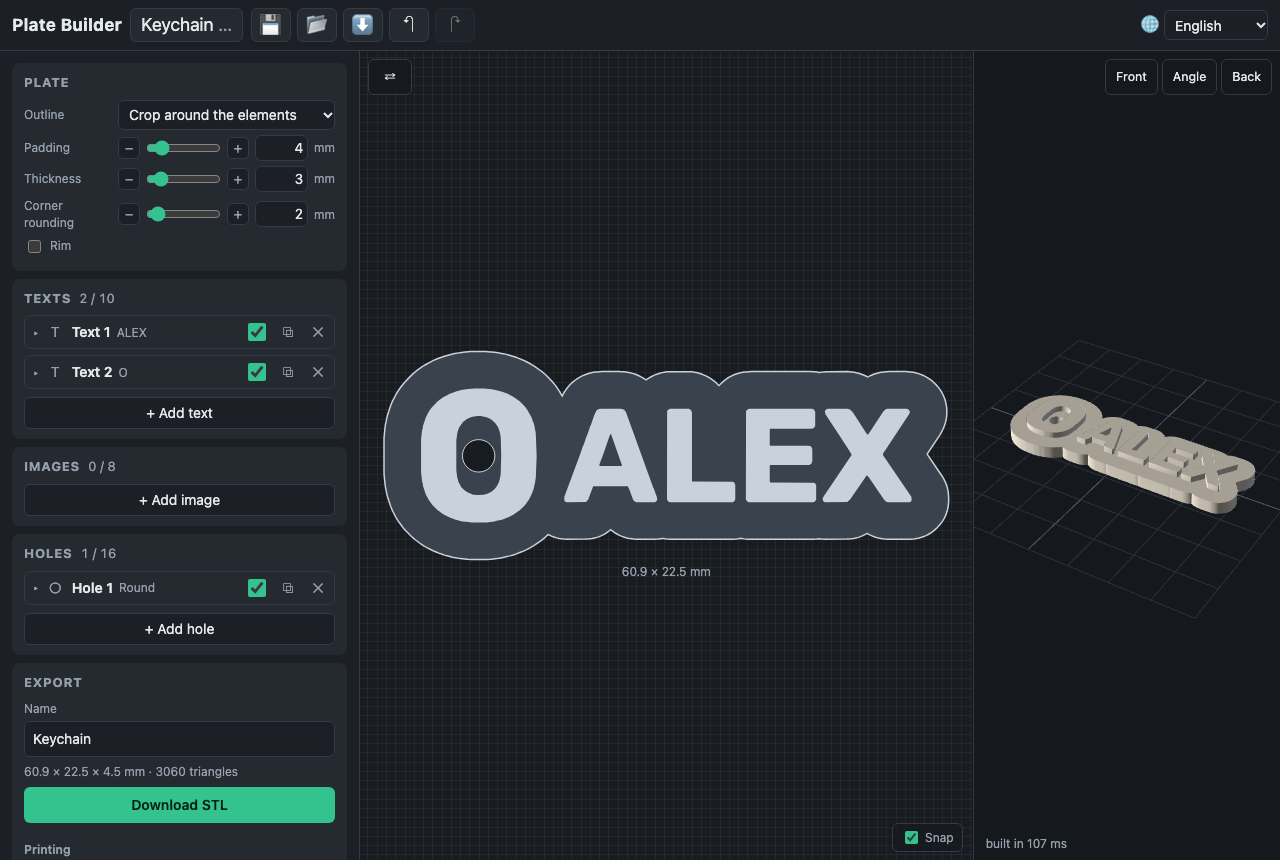
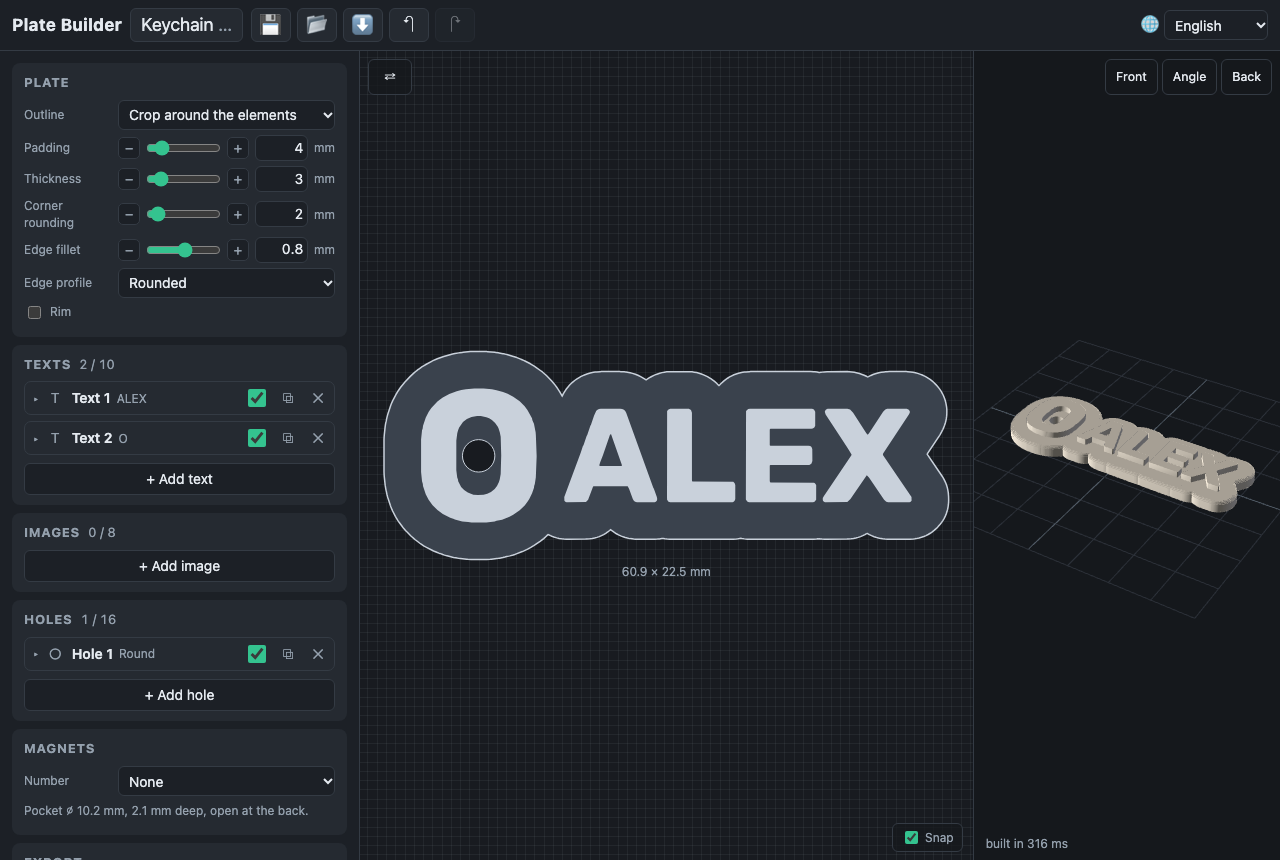
Edges in the small presets; docs pictures, AGENTS.md, PLAN.md

diff --git a/src/state/presets.ts b/src/state/presets.ts
@@ -69,7 +69,7 @@ export const BUILT_IN_PRESETS: readonly BuiltInPreset[] = [
     names: { en: 'Keychain', ru: 'Брелок', uk: 'Брелок', he: 'מחזיק מפתחות' },
     state: make({
       name: 'Keychain',
-      plate: { kind: 'crop', padding: 4, thickness: 3, rounding: 2 },
+      plate: { kind: 'crop', padding: 4, thickness: 3, rounding: 2, edgeSize: 0.8 },
       texts: [
         { text: 'ALEX', size: 10, height: 1.5, x: 8 },
         // the letter O as a ring around the key ring's hole, close enough for the padding to join them
@@ -83,7 +83,7 @@ export const BUILT_IN_PRESETS: readonly BuiltInPreset[] = [
     names: { en: 'Pet tag', ru: 'Жетон для питомца', uk: 'Жетон для улюбленця', he: 'תג לחיית מחמד' },
     state: make({
       name: 'Pet tag',
-      plate: { kind: 'ellipse', width: 40, height: 40, thickness: 2, rounding: 0 },
+      plate: { kind: 'ellipse', width: 40, height: 40, thickness: 2, rounding: 0, edgeSize: 0.8 },
       texts: [
         // big enough for strokes of two nozzle widths
         { text: 'BUDDY', size: 5, height: 0.8, arc: true, arcRadius: 14, arcSide: 'inside' },
@@ -120,7 +120,7 @@ export const BUILT_IN_PRESETS: readonly BuiltInPreset[] = [
     names: { en: 'Medal', ru: 'Медаль', uk: 'Медаль', he: 'מדליה' },
     state: make({
       name: 'Medal',
-      plate: { kind: 'ellipse', width: 60, height: 60, thickness: 3, rounding: 0, rim: true, rimWidth: 2, rimHeight: 1 },
+      plate: { kind: 'ellipse', width: 60, height: 60, thickness: 3, rounding: 0, rim: true, rimWidth: 2, rimHeight: 1, edgeSize: 0.8 },
       images: [{ src: STAR_PICTURE, size: 28, height: 1.5, y: -2 }],
       texts: [{ text: 'CHAMPION', size: 4, height: 1, arc: true, arcRadius: 20, arcSide: 'outside' }],
       holes: [{ kind: 'round', diameter: 3, y: 25.5 }],
@@ -141,7 +141,7 @@ export const BUILT_IN_PRESETS: readonly BuiltInPreset[] = [
     names: { en: 'Fridge magnet', ru: 'Магнит на холодильник', uk: 'Магніт на холодильник', he: 'מגנט למקרר' },
     state: make({
       name: 'Fridge magnet',
-      plate: { kind: 'crop', padding: 3, thickness: 4, rounding: 2 },
+      plate: { kind: 'crop', padding: 3, thickness: 4, rounding: 2, edgeSize: 1 },
       images: [{ src: APPLE_PICTURE, size: 50, height: 1.5, y: 6 }],
       // close enough under the apple for the padding to join them; as high, so it is not buried under the picture's box
       texts: [{ text: 'HELLO!', size: 7, height: 1.5, y: -17 }],

diff --git a/src/state/presets.test.ts b/src/state/presets.test.ts
@@ -76,6 +76,33 @@ describe('built-in presets', () => {
   });
 });
 
+describe('edges of the presets', () => {
+  it.each([
+    ['keychain', 0.8],
+    ['pet-tag', 0.8],
+    ['medal', 0.8],
+    ['fridge-magnet', 1],
+    ['door-sign', 0],
+    ['house-number', 0],
+    ['name-plate', 0],
+  ] as const)('%s: a %s mm fillet, no text on it', (id, edgeSize) => {
+    const { state } = presetById(id);
+    expect([state.plate.edgeSize, state.plate.edgeProfile]).toEqual([edgeSize, 'fillet']);
+    const scope = new CsgScope();
+    try {
+      const rasters = {
+        images: state.images.map((image) => opaque(image.pixelWidth, image.pixelHeight)),
+        texts: state.texts.map((text) => block(text)),
+        silhouette: state.plate.kind === 'vignette' ? frame(state.plate.width, state.plate.height) : null,
+      };
+      const { section } = stateOutline(csg, scope, state, rasters);
+      expect(warnings(state, outlineRings(section)).map((w) => w.code)).not.toContain('text.onEdge');
+    } finally {
+      scope.dispose();
+    }
+  });
+});
+
 describe('the fridge magnet', () => {
   it('has two 10 × 2 magnets in a row that fit its crop, with no warning', () => {
     const { state } = presetById('fridge-magnet');

diff --git a/AGENTS.md b/AGENTS.md
@@ -38,6 +38,7 @@ publishes `dist/` to GitHub Pages.
 | `plans/PLAN.md`         | milestones M0…M10, decisions, deviations |
 | `plans/PLAN-DESIGN.md`  | Case Constructor's look, element groups  |
 | `plans/PLAN-MAGNETS.md` | magnet pockets on the back (M11)         |
+| `plans/PLAN-FILLET.md`  | rounded or chamfered edges (M12)         |
 
 ## Architectural invariants
 
@@ -48,6 +49,9 @@ publishes `dist/` to GitHub Pages.
   message) passes `sanitizeState`; sanitizers never throw and are idempotent
   (fuzz-tested).
 - Manifold objects live in a `CsgScope` and are disposed.
+- The edges are no boolean: the outline's prism is one terraced mesh
+  (`edgedPrisms` in `worker/build.ts`); neighbouring terraces' insets differ
+  by at least `EDGE_MIN_GAP`, so their rings never cross.
 - No two solids in one boolean share a plane by construction (`ε` offsets);
   where unavoidable, cutters get a few microns of jitter.
 - The worker client keeps one waiting job per lane; a replaced job resolves
@@ -66,6 +70,9 @@ Measured on an M1 Mac, Chromium, worker time (`ms` of the job), with
 | export of the same, STL encoding included                                                  | 1 ms                                                    |
 | export click → file saved (main thread, download included)                                 | ~75 ms                                                  |
 | the default plate with four magnets at the corners (1036 triangles) — preview / export     | 15 ms / 8 ms                                            |
+| the default plate with a 1.5 mm fillet (1868 triangles) — preview / export                 | 16 ms / 29 ms                                           |
+| a 100 × 60 heart with a 1.5 mm fillet or chamfer (17k triangles) — preview                 | ~45 ms                                                  |
+| a cartouche vignette with its frame and a 2 mm fillet — preview / export                   | 44 ms / 104 ms                                          |
 | preview with four holes, one of each kind (100 × 60 × 6, 1300 triangles)                   | ~15 ms                                                  |
 | one raised text "PLATE BUILDER" on an arc, 8 mm (7.8k triangles) — preview                 | ~60 ms                                                  |
 | crop around a 36 mm picture and a text, padding 3, with its outline job                    | ~200 ms                                                 |
@@ -112,6 +119,7 @@ browser (service worker, layout, workers) → a step in `scripts/smoke.mjs`.
   heights),
   `holes.ts` (footprints, boxes and cutters of the hole kinds),
   `magnets.ts` (magnet layouts placed on the outline, pockets, cutters),
+  `edges.ts` (the edges' profile, terraces and slabs),
   `warnings.ts` (the warnings that need no CSG), `mesh.ts`
   (`SurfaceMesh`, normals), `stl.ts` (binary STL, file names), `validate.ts`
   (watertightness, volume, what blocks an export).

diff --git a/plans/PLAN-FILLET.md b/plans/PLAN-FILLET.md
@@ -179,3 +179,15 @@ ring's vertex count and topology (thin parts vanish, islands split).
   explains the size's limit and the profile.
 - **The profile's labels**: "Rounded" / "Chamfer 45°" (ru "Скругление" /
   "Фаска 45°"), the select "Edge profile".
+- **Docs pictures**: the presets that got an edge are re-shot, and one new
+  picture shows a chamfer:
+
+  ```
+  node scripts/snap.mjs --out docs/images/keychain.png --preset keychain
+  node scripts/snap.mjs --out docs/images/medal.png --preset medal
+  node scripts/snap.mjs --out docs/images/medal-image.png --preset medal --select i1 --panel '.element-row.open'
+  node scripts/snap.mjs --out docs/images/pet-tag-phone.png --preset pet-tag --width 390 --height 844
+  node scripts/snap.mjs --out docs/images/fridge-magnet-back.png --preset fridge-magnet --swap --camera back
+  node scripts/snap.mjs --out docs/images/door-sign-edges.png --preset door-sign --swap --camera iso --panel '#plate-edgeSize' \
+    --eval "const n = document.querySelector('#plate-edgeSize-n'); n.value = '1.5'; n.dispatchEvent(new Event('change')); const p = document.querySelector('#plate-edgeProfile'); p.value = 'chamfer'; p.dispatchEvent(new Event('change'));"
+  ```

diff --git a/docs/guide-plate.md b/docs/guide-plate.md
@@ -44,5 +44,8 @@ and + beside it for one step at a time, and a field for an exact number.
   magnets keep their edge distance from the foot of the bottom edge. A
   fillet's first layers hang over the bed a little and print well when
   small; a chamfer always does.
+
+![The door sign with a 1.5 mm chamfer](images/door-sign-edges.png)
+
 - **Rim** — a raised border along the outline, any kind of outline, with its
   width and height. Holes cut through it.

diff --git a/plans/PLAN.md b/plans/PLAN.md
@@ -384,3 +384,4 @@ sheet on a phone, offline reload.
 - **After M10**: the interface took Case Constructor's look (dark only,
   emerald) and the element groups; see `plans/PLAN-DESIGN.md`.
 - **After M10**: magnets in the back (M11); see `plans/PLAN-MAGNETS.md`.
+- **After M11**: rounded or chamfered top and bottom edges (M12); see `plans/PLAN-FILLET.md`.
